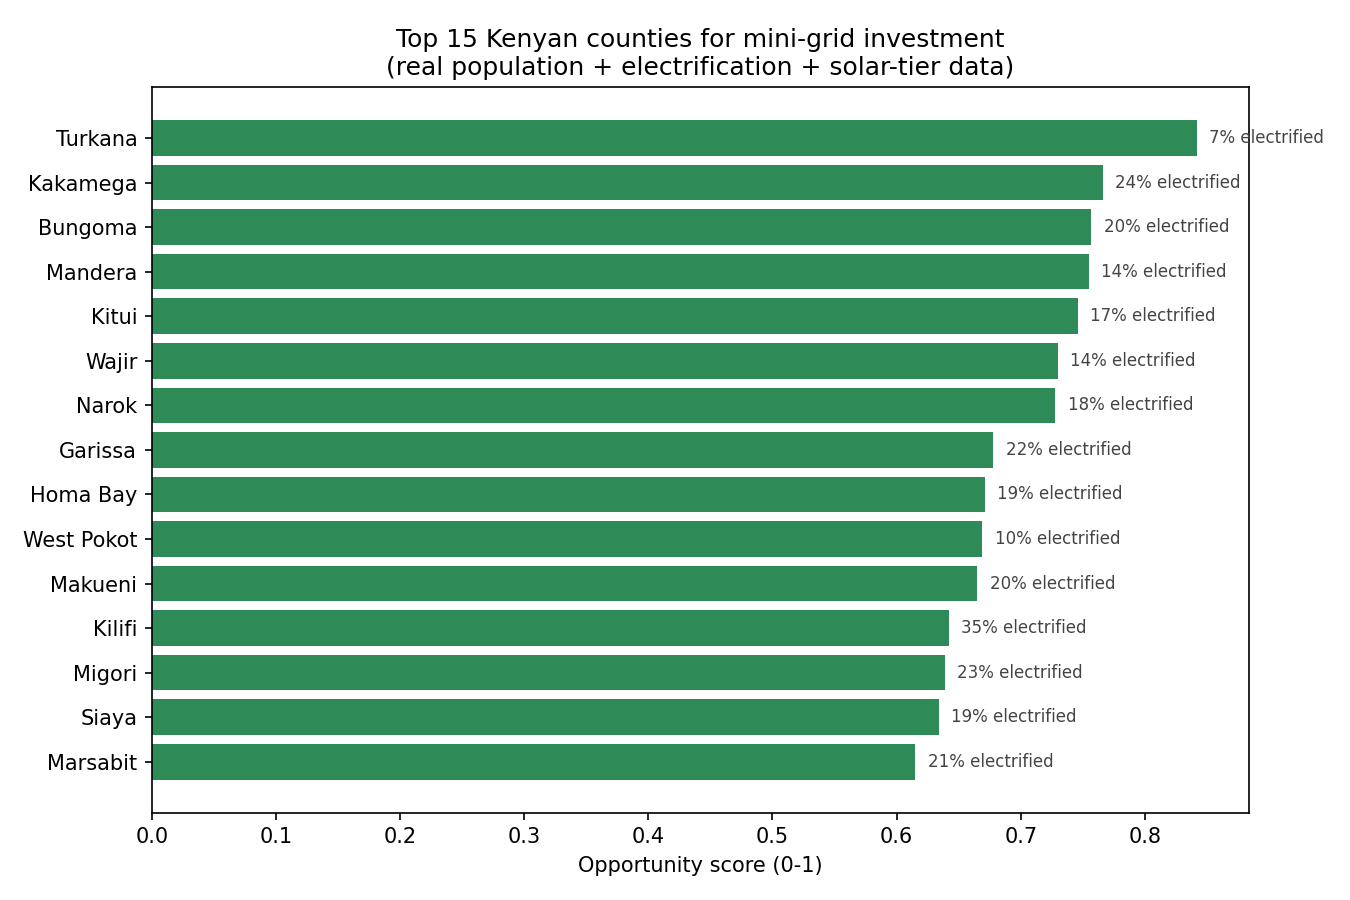
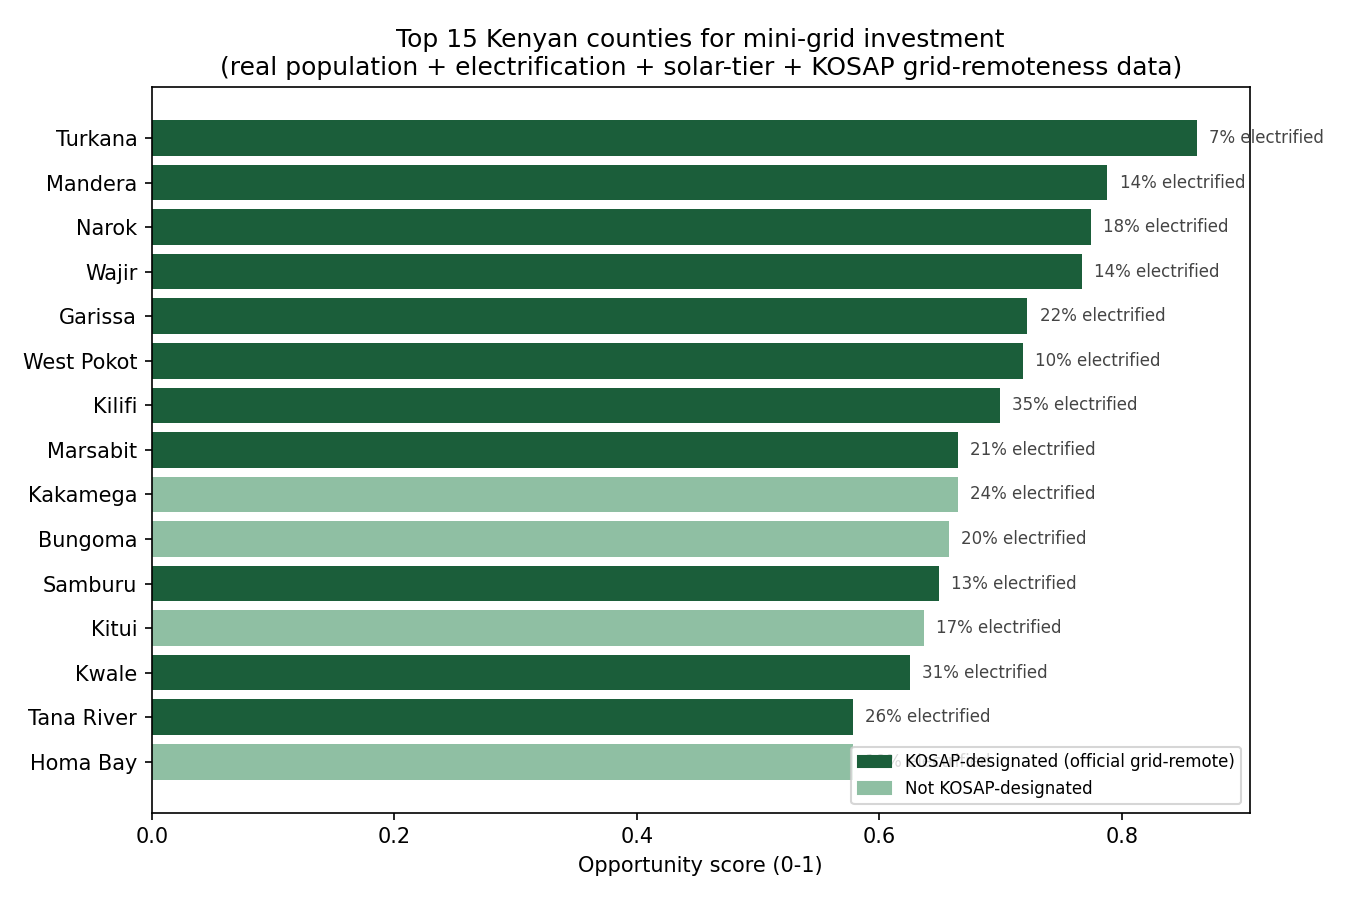
Add grid remoteness (KOSAP) as fourth scoring factor

diff --git a/src/score_sites.py b/src/score_sites.py
@@ -15,16 +15,22 @@ COUNTY LEVEL
    electricity access figures per county (Stats Kenya / KNBS 2019 census).
 2. population_2023           -> real KNBS county population estimate.
 3. unelectrified_population   -> population_2023 * (1 - electrification_rate/100)
-4. opportunity_score          -> normalized blend of three factors:
+4. opportunity_score          -> normalized blend of FOUR factors:
    - unelectrified_population (bigger = more people to serve)
    - access_gap_pct = 100 - electrification_rate (higher = more urgent,
      less grid competition)
    - solar_score = normalized GHI tier (higher solar resource = cheaper,
      more productive mini-grid generation)
-   All three are min-max normalized to 0-1 and blended with adjustable
+   - grid_remoteness = REAL, official KOSAP designation (1 if the county
+     is one of the 14 Government of Kenya/World Bank-designated
+     "furthest from grid infrastructure" counties, else 0). Grid-remote
+     counties are strictly better mini-grid targets: less likely the
+     national grid arrives and undercuts the investment, and it's the
+     government's own targeting criteria for exactly this kind of project.
+   All four are min-max normalized to 0-1 and blended with adjustable
    weights (CLI args or Streamlit sliders).
 
-CONSTITUENCY LEVEL (new)
+CONSTITUENCY LEVEL
 A separate, real ranking of the 296 constituencies in the raw dataset by
 electrification access alone (lowest access = most underserved). This is
 NOT population-weighted (see limitations) but is fully real data at a
@@ -41,6 +47,12 @@ DATA SOURCES (all real, all cited)
   ScienceDirect spatial-variability study and Turkana County's own energy
   office). This is an informed regional estimate, not a precise per-county
   satellite-pixel figure -- see limitations.
+- data/county_grid_remoteness.csv : REAL, official Government of
+  Kenya/World Bank grid-remoteness classification from the Kenya Off-Grid
+  Solar Access Project (KOSAP) -- 14 counties formally designated as
+  "furthest from grid infrastructure." See that file's header for the
+  full citation. This is a genuine government classification, not a
+  GIS-derived estimate (see limitations for what it isn't).
 
 LIMITATIONS (stated honestly)
 ------------------------------
@@ -49,16 +61,23 @@ LIMITATIONS (stated honestly)
   rate needs constituency-level population for all 296 constituencies.
   KNBS publishes this (Volume II, "Constituency Population by Sex, Number
   of Households, Area and Density"), but the consolidated source is
-  blocked to automated access from this environment, and pulling all 296
-  rows one Wikipedia page at a time was outside this session's scope.
-  This is a real, named gap -- not silently ignored.
+  blocked to automated access from this environment. Individual
+  constituency pages on Wikipedia do carry real population figures cited
+  to this same KNBS source, but pulling all 296 one page at a time wasn't
+  practical to do properly in this build's scope -- a real, named gap,
+  not silently ignored.
 - solar_est_kwh_m2_day is a literature-based tier estimate (see the data
   file's header), not a precise Global Solar Atlas GIS pixel value.
+- grid_remoteness (KOSAP) is a REAL, official, binary classification --
+  "on the list of 14" or not -- not a continuous distance-to-grid-in-km
+  measurement, which would need KPLC's actual network GIS shapefiles
+  (not publicly accessible). Treat it as "officially recognized as
+  grid-remote," a real and meaningful signal, just not a precise distance.
 - The constituency-level ranking uses access_pct alone -- it is not
   population-weighted for the same reason as above, so it tells you
   "most underserved constituencies" but not "biggest constituency-level
   market."
-- Still no grid-distance, terrain, or competitor mini-grid data.
+- Still no terrain or existing competitor mini-grid data.
   Treat all output as a first-pass shortlist, not a final decision.
 """
 
@@ -79,12 +98,17 @@ def load_data(data_dir="data"):
     )
     pop = pd.read_csv(f"{data_dir}/county_population.csv")
     solar = pd.read_csv(f"{data_dir}/county_solar_tier.csv", comment="#")
+    grid = pd.read_csv(f"{data_dir}/county_grid_remoteness.csv", comment="#")
 
-    df = pop.merge(county_access, on="county", how="inner").merge(solar, on="county", how="left")
+    df = (
+        pop.merge(county_access, on="county", how="inner")
+        .merge(solar, on="county", how="left")
+        .merge(grid, on="county", how="left")
+    )
     return df, access_raw
 
 
-def score(df, w_unserved=0.4, w_access_gap=0.4, w_solar=0.2):
+def score(df, w_unserved=0.35, w_access_gap=0.35, w_solar=0.15, w_grid=0.15):
     df = df.copy()
     df["unelectrified_population"] = (
         df["population_2023"] * (1 - df["electrification_rate_pct"] / 100)
@@ -97,17 +121,19 @@ def score(df, w_unserved=0.4, w_access_gap=0.4, w_solar=0.2):
     df["_unserved_norm"] = norm("unelectrified_population")
     df["_gap_norm"] = norm("access_gap_pct")
     df["_solar_norm"] = norm("ghi_est_kwh_m2_day")
+    df["_grid_norm"] = df["kosap_designated"]  # already 0/1, no normalization needed
 
-    total_w = w_unserved + w_access_gap + w_solar
+    total_w = w_unserved + w_access_gap + w_solar + w_grid
     if total_w == 0:
         total_w = 1  # avoid div by zero; scores will just be 0
     df["opportunity_score"] = (
         (w_unserved * df["_unserved_norm"]
          + w_access_gap * df["_gap_norm"]
-         + w_solar * df["_solar_norm"]) / total_w
+         + w_solar * df["_solar_norm"]
+         + w_grid * df["_grid_norm"]) / total_w
     ).round(3)
 
-    df = df.drop(columns=["_unserved_norm", "_gap_norm", "_solar_norm"])
+    df = df.drop(columns=["_unserved_norm", "_gap_norm", "_solar_norm", "_grid_norm"])
     return df.sort_values("opportunity_score", ascending=False).reset_index(drop=True)
 
 
@@ -120,33 +146,40 @@ def rank_constituencies(access_raw, top=30):
 def main():
     parser = argparse.ArgumentParser(description="Rank Kenyan counties/constituencies for mini-grid siting")
     parser.add_argument("--top", type=int, default=15, help="Number of counties to show")
-    parser.add_argument("--w-unserved", type=float, default=0.4, help="Weight: unelectrified population size")
-    parser.add_argument("--w-gap", type=float, default=0.4, help="Weight: access gap / underservedness")
-    parser.add_argument("--w-solar", type=float, default=0.2, help="Weight: solar resource quality")
+    parser.add_argument("--w-unserved", type=float, default=0.35, help="Weight: unelectrified population size")
+    parser.add_argument("--w-gap", type=float, default=0.35, help="Weight: access gap / underservedness")
+    parser.add_argument("--w-solar", type=float, default=0.15, help="Weight: solar resource quality")
+    parser.add_argument("--w-grid", type=float, default=0.15, help="Weight: official KOSAP grid-remoteness")
     parser.add_argument("--constituencies", action="store_true",
                          help="Also print the most underserved constituencies")
     parser.add_argument("--out", default="output/ranked_counties.csv")
     args = parser.parse_args()
 
     df, access_raw = load_data()
-    ranked = score(df, args.w_unserved, args.w_gap, args.w_solar)
+    ranked = score(df, args.w_unserved, args.w_gap, args.w_solar, args.w_grid)
     ranked.to_csv(args.out, index=False)
 
     cols = ["county", "population_2023", "electrification_rate_pct",
-            "unelectrified_population", "ghi_est_kwh_m2_day", "opportunity_score"]
-    print(f"\nTop {args.top} counties for new mini-grid investment (real KNBS + solar-literature data):\n")
+            "unelectrified_population", "ghi_est_kwh_m2_day", "kosap_designated", "opportunity_score"]
+    print(f"\nTop {args.top} counties for new mini-grid investment (real KNBS + solar-literature + KOSAP data):\n")
     print(ranked[cols].head(args.top).to_string(index=False))
     print(f"\nFull ranked list saved to {args.out}")
 
     top_n = ranked.head(args.top)
+    bar_colors = ["#1B5E3A" if k == 1 else "#8FBFA3" for k in top_n["kosap_designated"][::-1]]
     fig, ax = plt.subplots(figsize=(9, 6))
-    bars = ax.barh(top_n["county"][::-1], top_n["opportunity_score"][::-1], color="#2E8B57")
+    bars = ax.barh(top_n["county"][::-1], top_n["opportunity_score"][::-1], color=bar_colors)
     ax.set_xlabel("Opportunity score (0-1)")
     ax.set_title(f"Top {args.top} Kenyan counties for mini-grid investment\n"
-                 "(real population + electrification + solar-tier data)")
+                 "(real population + electrification + solar-tier + KOSAP grid-remoteness data)")
     for bar, rate in zip(bars, top_n["electrification_rate_pct"][::-1]):
         ax.text(bar.get_width() + 0.01, bar.get_y() + bar.get_height() / 2,
                 f"{rate:.0f}% electrified", va="center", fontsize=8, color="#444")
+    from matplotlib.patches import Patch
+    ax.legend(handles=[
+        Patch(color="#1B5E3A", label="KOSAP-designated (official grid-remote)"),
+        Patch(color="#8FBFA3", label="Not KOSAP-designated"),
+    ], loc="lower right", fontsize=8)
     plt.tight_layout()
     chart_path = "output/top_counties_chart.png"
     plt.savefig(chart_path, dpi=150)

diff --git a/app.py b/app.py
@@ -19,25 +19,28 @@ st.set_page_config(page_title="Mini-Grid Site Prioritizer", layout="wide")
 st.title("Mini-Grid Site Prioritization Tool")
 st.caption(
     "Ranks Kenyan counties for new mini-grid investment using real KNBS "
-    "population and electrification data, plus a literature-based solar "
-    "resource tier. Adjust the weights in the sidebar to match your "
+    "population and electrification data, a literature-based solar "
+    "resource tier, and Kenya's own official KOSAP grid-remoteness "
+    "designation. Adjust the weights in the sidebar to match your "
     "company's priorities."
 )
 
 st.sidebar.header("Scoring weights")
-w_unserved = st.sidebar.slider("Market size (unelectrified population)", 0.0, 1.0, 0.4, 0.05)
-w_gap = st.sidebar.slider("Urgency (access gap)", 0.0, 1.0, 0.4, 0.05)
-w_solar = st.sidebar.slider("Solar resource quality", 0.0, 1.0, 0.2, 0.05)
+w_unserved = st.sidebar.slider("Market size (unelectrified population)", 0.0, 1.0, 0.35, 0.05)
+w_gap = st.sidebar.slider("Urgency (access gap)", 0.0, 1.0, 0.35, 0.05)
+w_solar = st.sidebar.slider("Solar resource quality", 0.0, 1.0, 0.15, 0.05)
+w_grid = st.sidebar.slider("Grid remoteness (official KOSAP designation)", 0.0, 1.0, 0.15, 0.05)
 top_n = st.sidebar.slider("Counties to show", 5, 47, 15)
 
 st.sidebar.markdown("---")
 st.sidebar.caption(
     "Weights don't need to sum to 1 -- they're normalized automatically. "
-    "Set solar to 0 to replicate the original two-factor model."
+    "Grid remoteness is a real, official government classification (KOSAP) "
+    "of the 14 counties furthest from the national grid -- not a GIS distance estimate."
 )
 
 df, access_raw = load_data()
-ranked = score(df, w_unserved, w_gap, w_solar)
+ranked = score(df, w_unserved, w_gap, w_solar, w_grid)
 top = ranked.head(top_n)
 
 col1, col2 = st.columns([2, 1])
@@ -54,7 +57,7 @@ with col2:
 
 st.subheader("Full ranked table")
 display_cols = ["county", "population_2023", "electrification_rate_pct",
-                "unelectrified_population", "ghi_est_kwh_m2_day", "opportunity_score"]
+                "unelectrified_population", "ghi_est_kwh_m2_day", "kosap_designated", "opportunity_score"]
 st.dataframe(top[display_cols], use_container_width=True)
 
 csv_bytes = ranked.to_csv(index=False).encode("utf-8")
@@ -78,7 +81,8 @@ with st.expander("Data sources & honest limitations"):
     st.markdown("""
 - **Population & electrification**: real KNBS 2019 census + 2023 projections, and Stats Kenya's constituency-level electrification table.
 - **Solar tier**: a real, literature-based regional estimate (see `data/county_solar_tier.csv` for full citations) -- not a precise per-county satellite-pixel value.
+- **Grid remoteness (KOSAP)**: a REAL, official Government of Kenya/World Bank classification -- the 14 counties formally designated by the Kenya Off-Grid Solar Access Project as furthest from grid infrastructure (see `data/county_grid_remoteness.csv`). This is a genuine government targeting criterion, not a GIS-derived estimate -- but it's binary (on the list or not), not a continuous distance-in-km value.
 - **Not yet population-weighted**: county electrification rate is an unweighted mean of its constituencies. A true population-weighted rate needs constituency-level population for all 296 constituencies, which KNBS publishes but which wasn't accessible to pull in full for this build.
 - **Constituency ranking** uses access % alone, not population -- so it shows "most underserved," not "biggest market," at that level of detail.
-- No grid-distance, terrain, or competitor mini-grid data yet. Treat this as a first-pass shortlist tool.
+- No terrain or existing competitor mini-grid data yet. Treat this as a first-pass shortlist tool.
 """)

diff --git a/README.md b/README.md
@@ -8,7 +8,8 @@ mini-grid / off-grid energy company operating in Kenya:
 
 Instead of guessing or relying on anecdote, this ranks all 47 Kenyan
 counties by an **opportunity score** built from real government data,
-now including a solar resource factor, plus a finer-grained real
+now including a solar resource factor and Kenya's own official KOSAP
+grid-remoteness classification, plus a finer-grained real
 constituency-level ranking, and a Streamlit app so a non-technical
 analyst can move the weight sliders themselves.
 
@@ -34,10 +35,16 @@ shortlist. That's the first-principles gap this fills.
    irradiance (GHI) per county (see `data/county_solar_tier.csv` for full
    citations). Higher solar resource means cheaper, more productive
    mini-grid generation.
-5. **Opportunity score** blends all three (market size, urgency, solar
-   quality), each normalized 0–1, with adjustable weights — via CLI flags
-   or the Streamlit sliders.
-6. **Constituency-level ranking** — a separate, real ranking of all 296
+5. **Grid remoteness** — a real, official Government of Kenya/World Bank
+   classification: whether the county is one of the 14 formally
+   designated by the Kenya Off-Grid Solar Access Project (KOSAP) as
+   furthest from national grid infrastructure. Grid-remote counties are
+   better mini-grid bets — less risk the national grid arrives and
+   undercuts the investment.
+6. **Opportunity score** blends all four (market size, urgency, solar
+   quality, grid remoteness), each normalized 0–1, with adjustable
+   weights — via CLI flags or the Streamlit sliders.
+7. **Constituency-level ranking** — a separate, real ranking of all 296
    constituencies in the raw dataset by electrification access alone,
    for finding specific underserved sites within a promising county.
 
@@ -48,6 +55,7 @@ shortlist. That's the first-principles gap this fills.
 | `data/constituency_access_raw.csv` | Stats Kenya, "Kenya: Access to Electricity by Constituency" — [statskenya.co.ke](https://statskenya.co.ke/at-stats-kenya/about/kenya-access-to-electricity-by-constituency-stats-kenya/82/), compiled from the 2019 Kenya Population and Housing Census |
 | `data/county_population.csv` | KNBS 2019 Kenya Population and Housing Census (Vol. I) + 2023 population projections |
 | `data/county_solar_tier.csv` | Real, literature-based regional solar estimate — see the file's header for full citations (a ScienceDirect spatial-variability study of Kenya's GHI, and Turkana County's own energy office data) |
+| `data/county_grid_remoteness.csv` | Real, official classification from the [Kenya Off-Grid Solar Access Project (KOSAP)](https://www.kplc.co.ke/kosap) — a Ministry of Energy/KPLC/World Bank program that formally designated 14 counties as furthest from grid infrastructure |
 
 ## Running it
 
@@ -58,7 +66,7 @@ python3 src/score_sites.py --top 15 --constituencies
 ```
 
 Optional flags:
-- `--w-unserved 0.5 --w-gap 0.3 --w-solar 0.2` — custom weights (don't need to sum to 1)
+- `--w-unserved 0.4 --w-gap 0.3 --w-solar 0.15 --w-grid 0.15` — custom weights (don't need to sum to 1)
 - `--top 47` — see the full county ranking
 - `--constituencies` — also print/save the most underserved constituencies
 - `--out output/my_ranking.csv` — custom output path
@@ -66,7 +74,7 @@ Optional flags:
 Output:
 - `output/ranked_counties.csv` — full county ranking
 - `output/ranked_constituencies.csv` — constituency ranking (with `--constituencies`)
-- `output/top_counties_chart.png` — bar chart of the top counties
+- `output/top_counties_chart.png` — bar chart of the top counties (dark green = KOSAP-designated)
 
 **Streamlit app** (move the weight sliders yourself, no code needed):
 ```bash
@@ -79,15 +87,21 @@ streamlit run app.py
   a county, not population-weighted. A true population-weighted rate
   needs constituency-level population for all 296 constituencies — KNBS
   publishes this (Volume II), but the one consolidated source found was
-  blocked to automated access, and pulling all 296 rows one Wikipedia
-  page at a time was outside this build's scope. Named honestly rather
-  than silently skipped.
+  blocked to automated access. Individual constituency Wikipedia pages do
+  carry real population figures cited to this same KNBS source, but
+  pulling all 296 one page at a time wasn't practical to do properly in
+  this build's scope. Named honestly rather than silently skipped.
 - The solar tier is a real, cited literature-based regional estimate, not
   a precise per-county Global Solar Atlas GIS pixel value.
+- Grid remoteness (KOSAP) is a REAL, official, binary classification —
+  "on the list of 14" or not — not a continuous distance-to-grid-in-km
+  value, which would need KPLC's actual network GIS shapefiles (not
+  publicly accessible). It's a genuine government targeting signal, just
+  not a precise distance measurement.
 - The constituency-level ranking is by access % alone (not
   population-weighted, for the same reason above) — it shows "most
   underserved," not "biggest market," at that granularity.
-- Still no grid-distance, terrain, or existing competitor mini-grid data.
+- Still no terrain or existing competitor mini-grid data.
   Treat all output as a first-pass shortlist, not a final decision.
 
 ## Extending this further
@@ -97,6 +111,5 @@ streamlit run app.py
   population-weighted.
 - Replace the literature-based solar tier with actual Global Solar Atlas
   GIS raster values per county centroid, using a GIS library.
-- Add grid-distance (from KPLC's network data, if accessible) as a fourth
-  scoring factor — closer to existing grid infrastructure usually means
-  cheaper interconnection but also more competition.
+- Replace the binary KOSAP flag with an actual continuous distance-to-grid
+  value, if KPLC's network GIS data ever becomes accessible.
